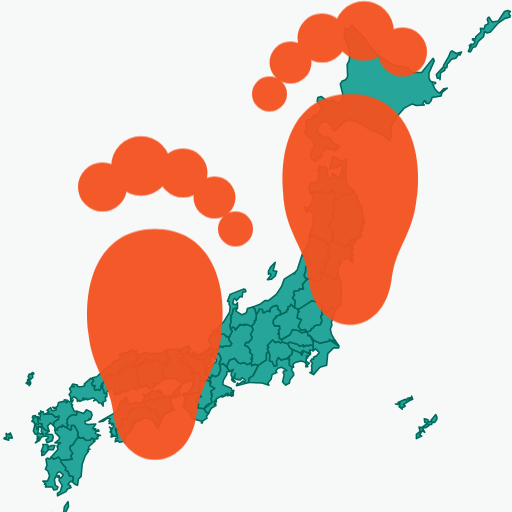
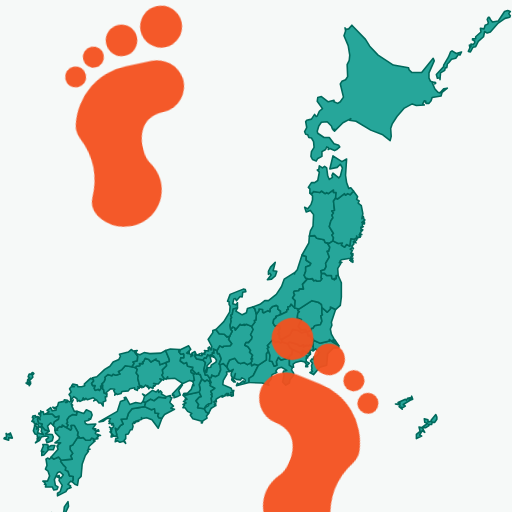
feat: 足跡をMDI公式アイコンに差し替え(左足前・大股・地図との被り最小)
- Material Design Icons foot-print(Apache 2.0)を流用
- 左足=前(左上の海域)、右足=後ろ(右下の海域)に配置
- READMEとaboutダイアログにライセンスクレジット追加

diff --git a/lib/main.dart b/lib/main.dart
@@ -194,6 +194,7 @@ class _HomeScreenState extends State<HomeScreen> {
             Text('行った都道府県を塗りつぶして、旅の記録を残すアプリ。'),
             SizedBox(height: 8),
             Text('日本地図: geolonia/japanese-prefectures(MIT License)'),
+            Text('足跡アイコン: Material Design Icons(Apache License 2.0)'),
           ],
         );
         break;

diff --git a/README.md b/README.md
@@ -27,4 +27,5 @@ $flutter = 'C:\Users\w5521\dev\tools\flutter\bin\flutter.bat'
 ## クレジット
 
 - 日本地図 SVG: [geolonia/japanese-prefectures](https://github.com/geolonia/japanese-prefectures)(MIT License)
+- 足跡アイコン: [Material Design Icons](https://pictogrammers.com/library/mdi/)(Apache License 2.0)
 - 経県値の考え方: [経県値](https://uub.jp/kkn/)に着想
